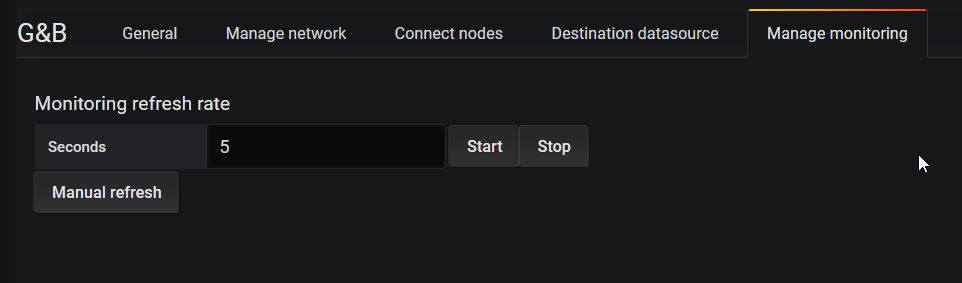
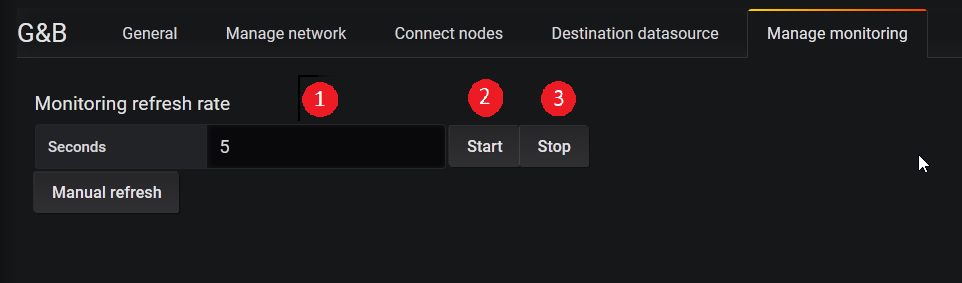
[MU] Fix

Changed region(s): [[0.4678, 0.2827, 0.5301, 0.424], [0.3119, 0.2544, 0.3742, 0.424], [0.5613, 0.2827, 0.6237, 0.424]]

diff --git a/ManualeUtente/Res/Sezioni/Utilizzo/ConfigurazioneTempoRicalcoloRete.tex b/ManualeUtente/Res/Sezioni/Utilizzo/ConfigurazioneTempoRicalcoloRete.tex
@@ -1,16 +1,16 @@
 \subsubsection{Configurazione tempi di ricalcolo}
 \begin{figure} [H]
 	\centering
-	\includegraphics[scale=0.55]{} 
+	\includegraphics[scale=0.55]{Img/monitoring} 
 	\caption{Tab di configurazione tempi di ricalcolo} \label{} 
 \end{figure} 
 Dopo aver scelto la datasource e il database in cui scrivere il risultato del processo di ricalcolo delle probabilità dei nodi della rete, avrete la possibilità di scegliere in che modo effettuare il monitoraggio:
 \begin{itemize}
 	\item Saltuariamente tramite il tasto "Ricalcola";
-	\item Costantemente, utilizzando i tasti "Start" e "Stop" e la cella di testo in cui specificare, in secondi, il timer di refresh. L'iter per il corretto settaggio è il seguente:
+	\item Costantemente, utilizzando i tasti "\emph{Start}" e "\emph{Stop}" e la cella di testo in cui specificare, in secondi, il timer di refresh. L'iter per il corretto settaggio è il seguente:
 		\begin{enumerate}
 				\item Settare il timer di ricalcolo (in secondi e con un numero >=0);
-				\item Cliccare sul pulsante "Start" per iniziare il monitoraggio;
-				\item Cliccare sul pulsante "Stop" per terminare il ricalcolo.
+				\item Cliccare sul pulsante "\emph{Start}" per iniziare il monitoraggio;
+				\item Cliccare sul pulsante "\emph{Stop}" per terminare il ricalcolo.
 		\end{enumerate}
 \end{itemize}
